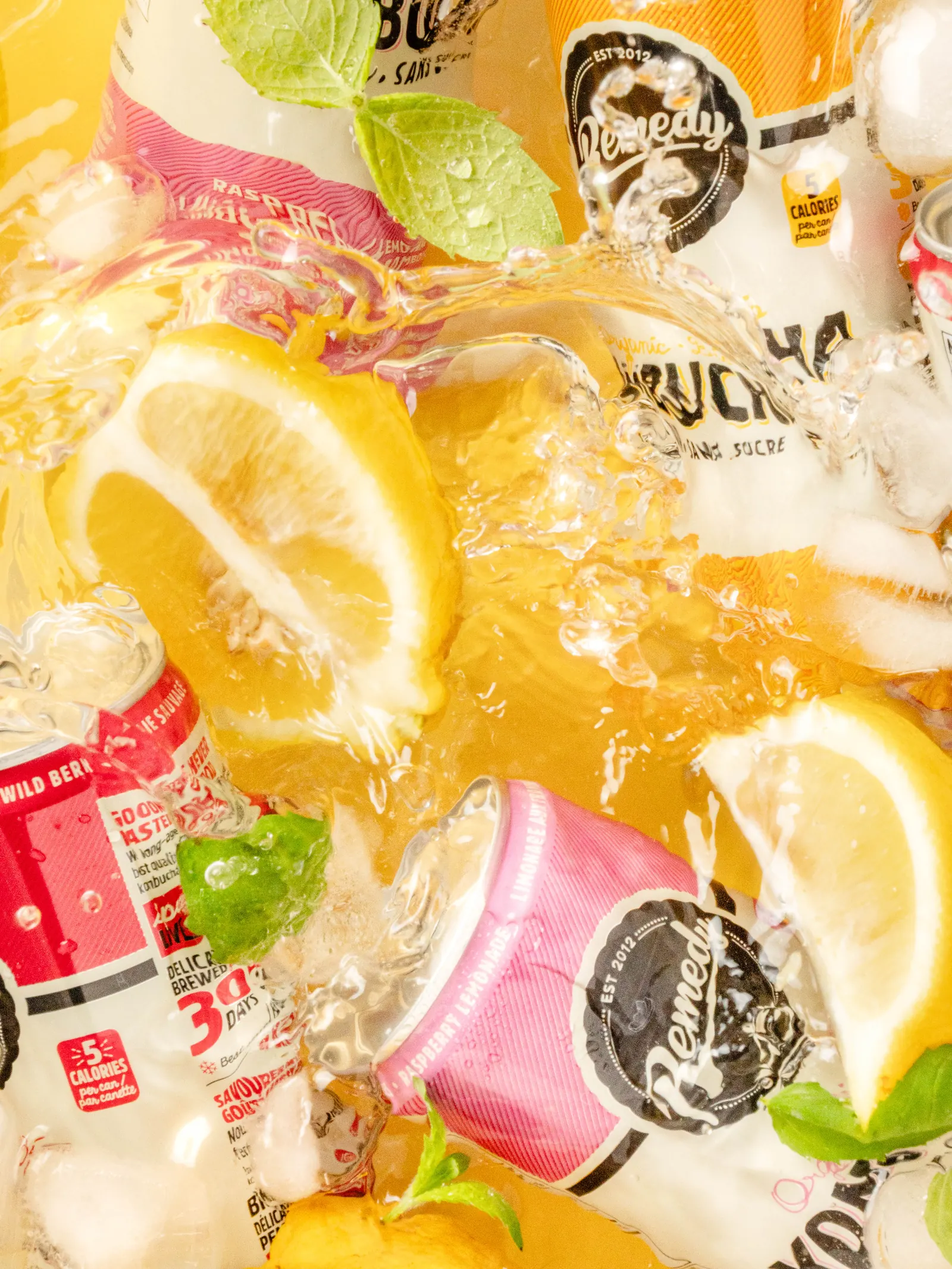
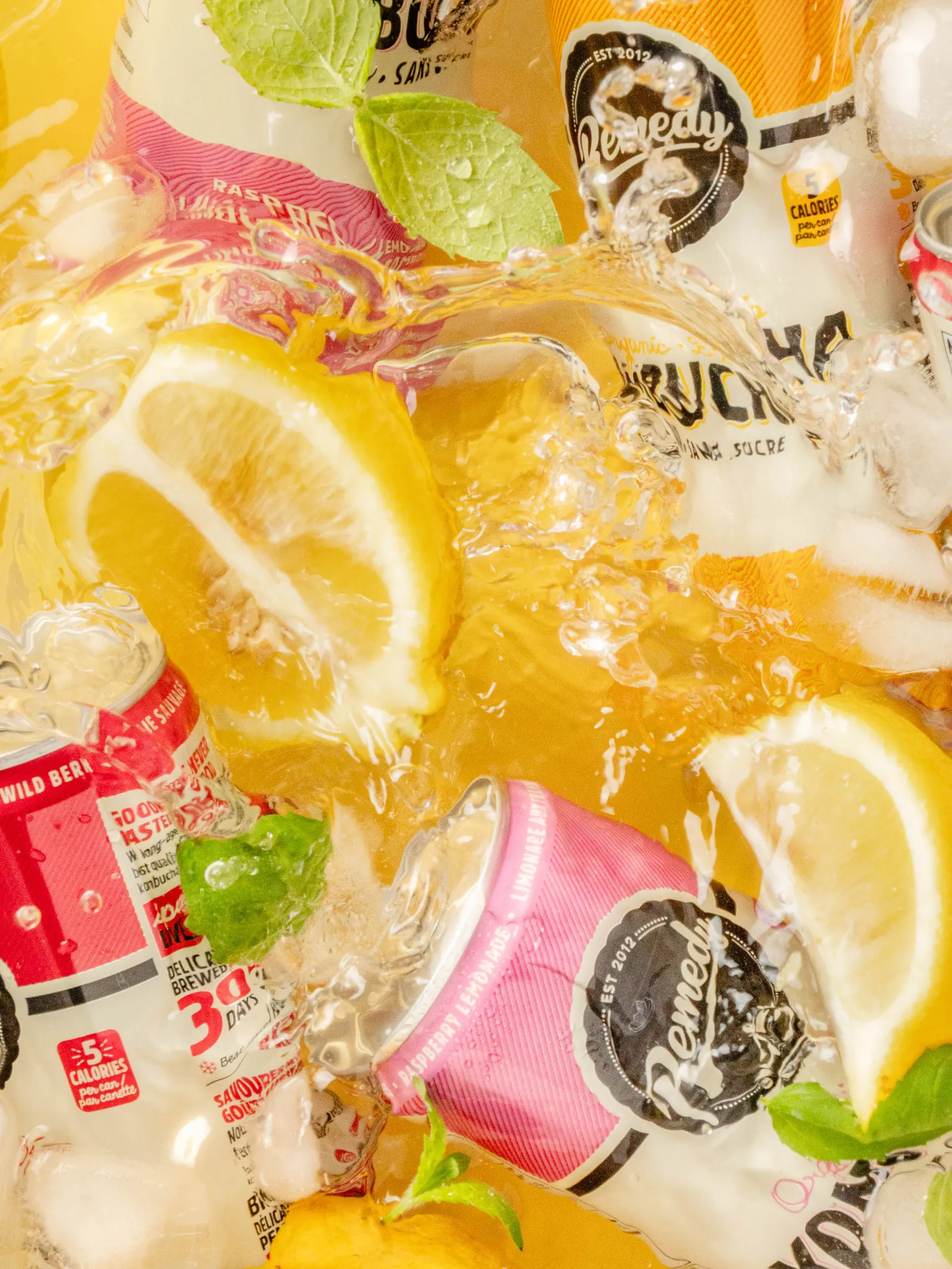
Remedy Kombucha : photos 145 et 167 mises à jour

diff --git a/photographie/remedy-kombucha.html b/photographie/remedy-kombucha.html
@@ -106,8 +106,8 @@
     <img width="1600" height="2134" class="pj-grid4-img" src="photos/remedy-1.webp" alt="Remedy Kombucha, photographie de produits : image 1 sur 5" loading="lazy" decoding="async">
     <img width="1600" height="2133" class="pj-grid4-img" src="photos/remedy-3.webp" alt="Remedy Kombucha, photographie de produits : image 2 sur 5" loading="lazy" decoding="async">
     <img width="1600" height="2134" class="pj-grid4-img" src="photos/remedy-4.webp" alt="Remedy Kombucha, photographie de produits : image 3 sur 5" loading="lazy" decoding="async">
-    <img width="1600" height="2133" class="pj-grid4-img" src="photos/remedy-5.webp" alt="Remedy Kombucha, photographie de produits : image 4 sur 5" loading="lazy" decoding="async">
-    <img width="1600" height="2120" class="pj-grid4-img" src="photos/remedy-6.webp" alt="Remedy Kombucha, photographie de produits : image 5 sur 5" loading="lazy" decoding="async">
+    <img width="1600" height="2133" class="pj-grid4-img" src="photos/remedy-5.webp?v=2" alt="Remedy Kombucha, photographie de produits : image 4 sur 5" loading="lazy" decoding="async">
+    <img width="1600" height="2120" class="pj-grid4-img" src="photos/remedy-6.webp?v=2" alt="Remedy Kombucha, photographie de produits : image 5 sur 5" loading="lazy" decoding="async">
   </section>
 
   <!-- ─── MOBILE : mêmes images empilées ─── -->
@@ -115,8 +115,8 @@
     <img width="1600" height="2134" class="pj-stack-img" src="photos/remedy-1.webp" alt="Remedy Kombucha, photographie de produits : image 1 sur 5" loading="lazy" decoding="async">
     <img width="1600" height="2133" class="pj-stack-img" src="photos/remedy-3.webp" alt="Remedy Kombucha, photographie de produits : image 2 sur 5" loading="lazy" decoding="async">
     <img width="1600" height="2134" class="pj-stack-img" src="photos/remedy-4.webp" alt="Remedy Kombucha, photographie de produits : image 3 sur 5" loading="lazy" decoding="async">
-    <img width="1600" height="2133" class="pj-stack-img" src="photos/remedy-5.webp" alt="Remedy Kombucha, photographie de produits : image 4 sur 5" loading="lazy" decoding="async">
-    <img width="1600" height="2120" class="pj-stack-img" src="photos/remedy-6.webp" alt="Remedy Kombucha, photographie de produits : image 5 sur 5" loading="lazy" decoding="async">
+    <img width="1600" height="2133" class="pj-stack-img" src="photos/remedy-5.webp?v=2" alt="Remedy Kombucha, photographie de produits : image 4 sur 5" loading="lazy" decoding="async">
+    <img width="1600" height="2120" class="pj-stack-img" src="photos/remedy-6.webp?v=2" alt="Remedy Kombucha, photographie de produits : image 5 sur 5" loading="lazy" decoding="async">
   </section>
 
   <!-- ─── CRÉDITS ─── -->
